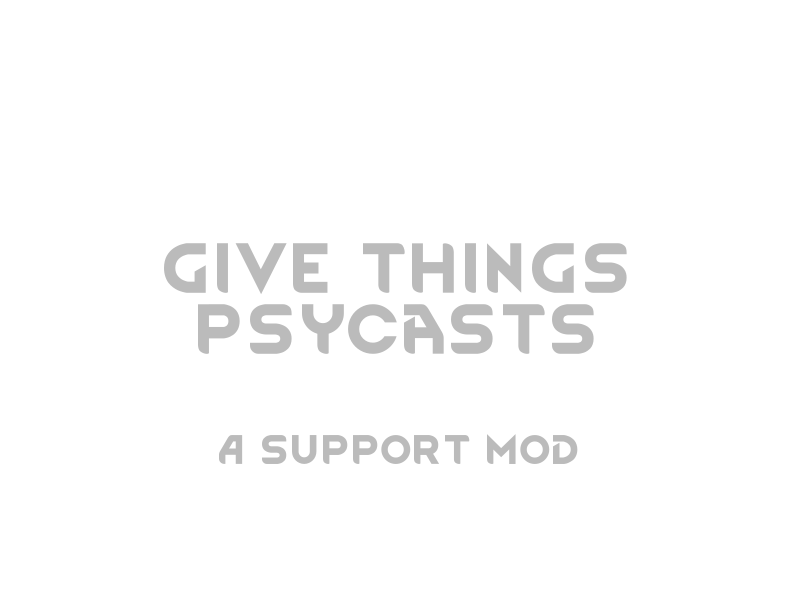
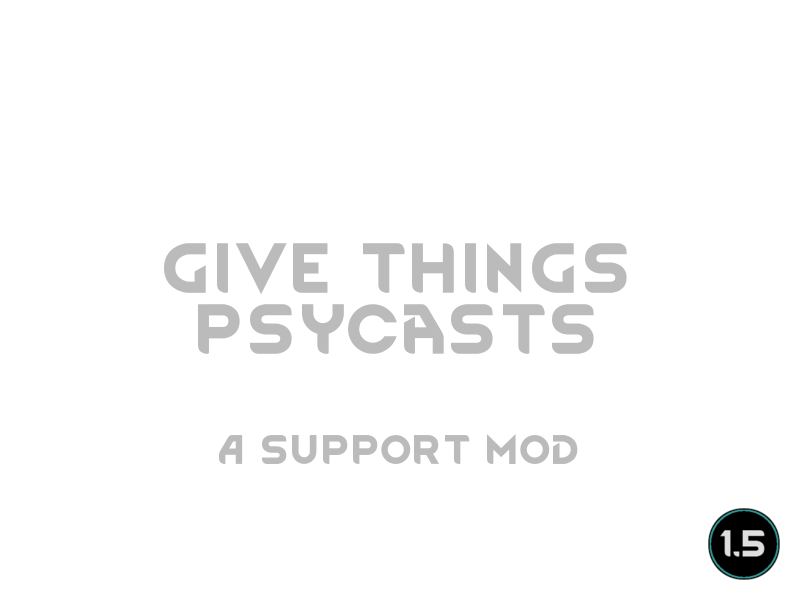
Updated for 1.5

Changed region(s): [[0.875, 0.84, 1.0, 0.99]]

diff --git a/Source/GiveThingsPsycasts/CompGiveHediffsPsycasts.cs b/Source/GiveThingsPsycasts/CompGiveHediffsPsycasts.cs
@@ -50,6 +50,6 @@ public class CompGiveHediffsPsycasts : HediffComp
         Main.resetPsycastLevel(owner);
 
         var ability = new Psycast(owner, definedPsycastDef);
-        yield return new Command_Psycast(ability);
+        yield return new Command_Psycast(ability, owner);
     }
 }

diff --git a/Source/GiveThingsPsycasts/CompGiveThingsPsycasts.cs b/Source/GiveThingsPsycasts/CompGiveThingsPsycasts.cs
@@ -58,6 +58,6 @@ public class CompGiveThingsPsycasts : ThingComp
         Main.resetPsycastLevel(owner);
 
         var ability = new Psycast(owner, definedPsycastDef);
-        yield return new Command_Psycast(ability);
+        yield return new Command_Psycast(ability, owner);
     }
 }

diff --git a/README.md b/README.md
@@ -1,6 +1,6 @@
 # GiveThingsPsycasts
 
-![Image](https://i.imgur.com/buuPQel.png)
+![Image](https://i.imgur.com/iCj5o7O.png)
 
 This mod allows other mods to add Psycasts to Apparel and Hediffs.
 Mods can use the Comp defined in this mod to give the wearer of an apparel or hediff the ability to cast a psycast, even if the pawn is not a psycast-enabled pawn.
@@ -8,24 +8,26 @@ It supports custom psycasts and only needs the defName of the psycast as propert
 
 For info on how its used please look at the template-file in the Def-directory of the mod.
 	
-![Image](https://i.imgur.com/O0IIlYj.png)
+![Image](https://i.imgur.com/Ds0rBAD.png)
 
 Since modding is just a hobby for me I expect no donations to keep modding. If you still want to show your support you can gift me anything from my https://store.steampowered.com/wishlist/id/Mlie]Wishlist or buy me a cup of tea.
 
-https://ko-fi.com/G2G55DDYD]![Image](https://i.imgur.com/Utx6OIH.png)
+https://ko-fi.com/G2G55DDYD]![Image](https://i.imgur.com/VWG0yff.png)
 
 
-![Image](https://i.imgur.com/PwoNOj4.png)
+![Image](https://i.imgur.com/5xwDG6H.png)
 
 
 
 -  See if the the error persists if you just have this mod and its requirements active.
 -  If not, try adding your other mods until it happens again.
--  Post your error-log using https://steamcommunity.com/workshop/filedetails/?id=818773962]HugsLib and command Ctrl+F12
+-  Post your error-log using https://steamcommunity.com/workshop/filedetails/?id=818773962]HugsLib or the standalone https://steamcommunity.com/sharedfiles/filedetails/?id=2873415404]Uploader and command Ctrl+F12
 -  For best support, please use the Discord-channel for error-reporting.
 -  Do not report errors by making a discussion-thread, I get no notification of that.
 -  If you have the solution for a problem, please post it to the GitHub repository.
+-  Use https://github.com/RimSort/RimSort/releases/latest]RimSort to sort your mods
 
 
 
+https://steamcommunity.com/sharedfiles/filedetails/changelog/2425004125]![Image](https://img.shields.io/github/v/release/emipa606/GiveThingsPsycasts?label=latest%20version&style=plastic&labelColor=0070cd&color=white)
 
